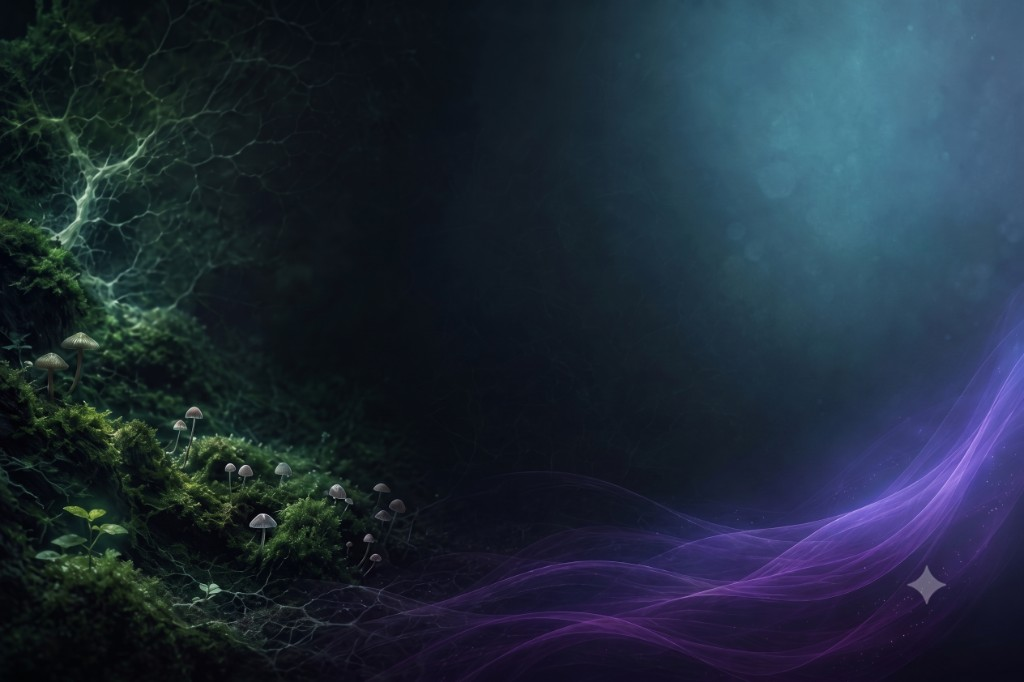
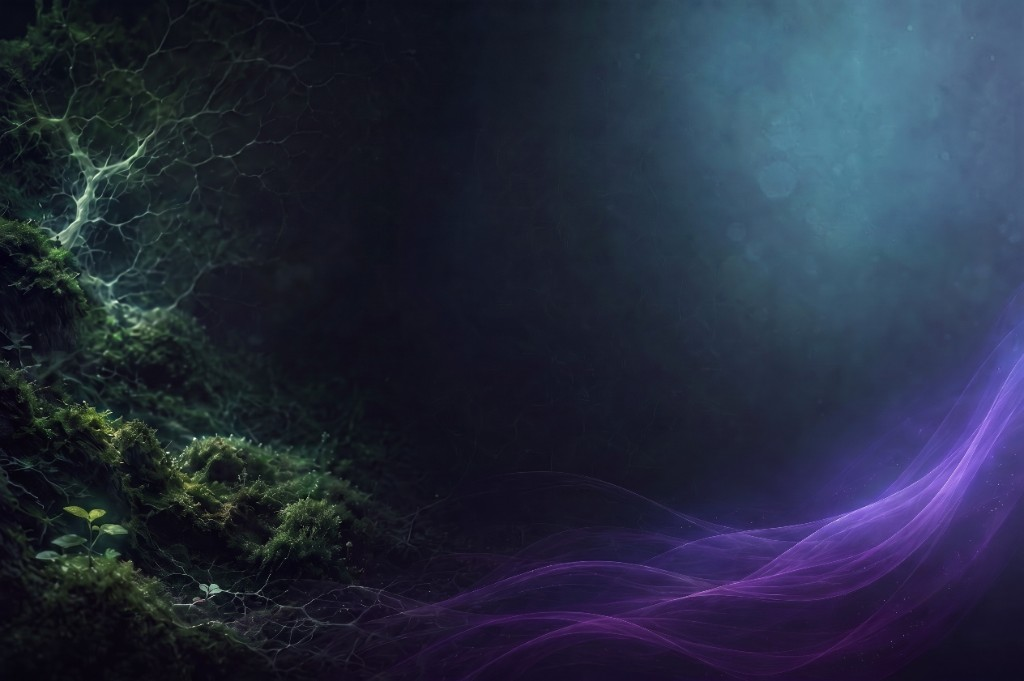
Add photo backgrounds to Blog/FAQ/Science cards, transparent stats section, new bg image

diff --git a/components/blog-faq-links.tsx b/components/blog-faq-links.tsx
@@ -7,63 +7,74 @@ import { useTranslations } from "next-intl"
 export function BlogFaqLinks() {
   const t = useTranslations("blogFaq")
 
-  const cards = [
-    {
-      href: "/blog" as const,
-      className: "glass-card-blog",
-      icon: BookOpen,
-      iconColor: "text-[#C9A664]",
-      iconBg: "bg-[#C9A664]/15",
-      title: t("blogTitle"),
-      desc: t("blogDesc"),
-    },
-    {
-      href: "/faq" as const,
-      className: "glass-card-faq",
-      icon: HelpCircle,
-      iconColor: "text-[#7FA6A1]",
-      iconBg: "bg-[#6E4A7E]/25",
-      title: t("faqTitle"),
-      desc: t("faqDesc"),
-    },
-    {
-      href: "/blog" as const,
-      className: "glass-card-science",
-      icon: Microscope,
-      iconColor: "text-[#7FA6A1]",
-      iconBg: "bg-[#2D5D66]/30",
-      title: t("scienceTitle") ?? "Science",
-      desc: t("scienceDesc") ?? "Studies, data and scientific insights",
-    },
-  ]
-
   return (
-    <section className="py-16 md:py-24 px-6">
-      <div className="max-w-7xl mx-auto grid sm:grid-cols-2 lg:grid-cols-3 gap-6 md:gap-8">
-        {cards.map((card) => {
-          const Icon = card.icon
-          return (
-            <Link
-              key={card.title}
-              href={card.href}
-              className={`group relative ${card.className} p-8 flex flex-col min-h-[420px] lg:min-h-[460px]`}
-            >
-              <div className="flex items-start justify-between mb-8">
-                <div className={`w-14 h-14 rounded-2xl ${card.iconBg} flex items-center justify-center`}>
-                  <Icon className={`w-7 h-7 ${card.iconColor}`} />
-                </div>
-                <ArrowRight className="w-5 h-5 text-[#7A7A7A] group-hover:text-gold group-hover:translate-x-1 transition-all duration-300" />
-              </div>
+    <section className="py-10 px-4">
+      <div className="max-w-6xl mx-auto grid sm:grid-cols-3 gap-4 md:gap-6">
+        {/* Blog — mushroom photo */}
+        <Link
+          href="/blog"
+          className="group relative overflow-hidden rounded-2xl border border-[rgba(201,166,100,0.25)] hover:border-gold/50 transition-all p-7 flex flex-col min-h-[280px]"
+          style={{ boxShadow: '0 20px 60px rgba(0,0,0,.45)' }}
+        >
+          <div className="absolute inset-0 bg-cover bg-center" style={{ backgroundImage: "url('/images/blog-bg.png')" }} />
+          <div className="absolute inset-0 bg-gradient-to-t from-[#08120F]/90 via-[#08120F]/40 to-transparent" />
+          <div className="relative z-10 flex items-start justify-between mb-6">
+            <div className="w-14 h-14 rounded-2xl bg-gold/20 backdrop-blur-sm flex items-center justify-center group-hover:bg-gold/30 transition-colors">
+              <BookOpen className="w-7 h-7 text-gold" />
+            </div>
+            <ArrowRight className="w-5 h-5 text-gold/50 group-hover:text-gold group-hover:translate-x-1 transition-all" />
+          </div>
+          <div className="relative z-10 mt-auto">
+            <h3 className="text-2xl font-bold text-[#F4EFE4] mb-2 group-hover:text-gold transition-colors">
+              {t("blogTitle")}
+            </h3>
+            <p className="text-[#B8B8B8] text-sm leading-relaxed">{t("blogDesc")}</p>
+          </div>
+        </Link>
 
-              <div className="mt-auto">
-                <h3 className="text-[#F4EFE4] mb-3 group-hover:text-gold transition-colors duration-300">
-                  {card.title}
-                </h3>
-                <p className="text-[#B8B8B8] text-[15px] leading-relaxed">{card.desc}</p>
-              </div>
-            </Link>
-          )
-        })}
+        {/* FAQ — purple mushroom photo */}
+        <Link
+          href="/faq"
+          className="group relative overflow-hidden rounded-2xl border border-[rgba(201,166,100,0.25)] hover:border-gold/50 transition-all p-7 flex flex-col min-h-[280px]"
+          style={{ boxShadow: '0 20px 60px rgba(0,0,0,.45)' }}
+        >
+          <div className="absolute inset-0 bg-cover bg-center" style={{ backgroundImage: "url('/images/faq-bg.png')" }} />
+          <div className="absolute inset-0 bg-gradient-to-t from-[#08120F]/90 via-[#08120F]/40 to-transparent" />
+          <div className="relative z-10 flex items-start justify-between mb-6">
+            <div className="w-14 h-14 rounded-2xl bg-violet/30 backdrop-blur-sm flex items-center justify-center group-hover:bg-violet/50 transition-colors">
+              <HelpCircle className="w-7 h-7 text-mist" />
+            </div>
+            <ArrowRight className="w-5 h-5 text-mist/50 group-hover:text-mist group-hover:translate-x-1 transition-all" />
+          </div>
+          <div className="relative z-10 mt-auto">
+            <h3 className="text-2xl font-bold text-[#F4EFE4] mb-2 group-hover:text-mist transition-colors">
+              {t("faqTitle")}
+            </h3>
+            <p className="text-[#B8B8B8] text-sm leading-relaxed">{t("faqDesc")}</p>
+          </div>
+        </Link>
+
+        {/* Science — microscope photo */}
+        <Link
+          href="/blog"
+          className="group relative overflow-hidden rounded-2xl border border-[rgba(201,166,100,0.25)] hover:border-gold/50 transition-all p-7 flex flex-col min-h-[280px]"
+          style={{ boxShadow: '0 20px 60px rgba(0,0,0,.45)' }}
+        >
+          <div className="absolute inset-0 bg-cover bg-center" style={{ backgroundImage: "url('/images/science-bg.png')" }} />
+          <div className="absolute inset-0 bg-gradient-to-t from-[#08120F]/90 via-[#08120F]/40 to-transparent" />
+          <div className="relative z-10 flex items-start justify-between mb-6">
+            <div className="w-14 h-14 rounded-2xl bg-teal/30 backdrop-blur-sm flex items-center justify-center group-hover:bg-teal/50 transition-colors">
+              <Microscope className="w-7 h-7 text-mist" />
+            </div>
+            <ArrowRight className="w-5 h-5 text-mist/50 group-hover:text-mist group-hover:translate-x-1 transition-all" />
+          </div>
+          <div className="relative z-10 mt-auto">
+            <h3 className="text-2xl font-bold text-[#F4EFE4] mb-2 group-hover:text-mist transition-colors">
+              {t("scienceTitle")}
+            </h3>
+            <p className="text-[#B8B8B8] text-sm leading-relaxed">{t("scienceDesc")}</p>
+          </div>
+        </Link>
       </div>
     </section>
   )

diff --git a/components/stats-section.tsx b/components/stats-section.tsx
@@ -1,5 +1,7 @@
-import { Users, Clock, Award, TrendingUp } from "lucide-react"
+import { Users, CheckCircle, Award, Heart, TrendingUp, Star, LucideIcon } from "lucide-react"
 import type { Stat } from "@/lib/api"
+
+const STAT_ICONS: LucideIcon[] = [Users, CheckCircle, Award, Heart, TrendingUp, Star]
 
 interface Translations {
   default0: string
@@ -13,13 +15,6 @@ interface Props {
   translations: Translations
 }
 
-const STAT_CONFIG = [
-  { icon: Users, color: "#C9A664" },
-  { icon: Clock, color: "#A6B58D" },
-  { icon: Award, color: "#6E4A7E" },
-  { icon: TrendingUp, color: "#7FA6A1" },
-]
-
 export function StatsSection({ stats, translations: tr }: Props) {
   const DEFAULT_STATS: Stat[] = [
     { id: 1, value: "1500+", label: tr.default0, order: 0 },
@@ -31,31 +26,19 @@ export function StatsSection({ stats, translations: tr }: Props) {
   const items = stats.length > 0 ? stats : DEFAULT_STATS
 
   return (
-    <section className="py-10 md:py-14 px-6">
-      <div className="max-w-6xl mx-auto">
-        <div className="glass-bar py-8 md:py-0 md:h-[140px] grid grid-cols-2 md:grid-cols-4">
-          {items.map((stat, i) => {
-            const cfg = STAT_CONFIG[i % STAT_CONFIG.length]
-            const Icon = cfg.icon
-            const isNotLast = i < items.length - 1
+    <section className="border-t border-gold/10 py-12 lg:py-16" style={{ background: 'rgba(8,18,15,0.35)', backdropFilter: 'blur(8px)' }}>
+      <div className="container mx-auto px-4 lg:px-8">
+        <div className="grid grid-cols-2 gap-5 md:grid-cols-4 md:gap-8">
+          {items.map((stat, index) => {
+            const IconComponent = STAT_ICONS[index % STAT_ICONS.length]
             return (
-              <div
-                key={stat.id}
-                className={`flex items-center justify-center gap-4 px-4 py-4 md:py-0 ${
-                  isNotLast ? "md:border-r md:border-white/10" : ""
-                }`}
-              >
-                <div
-                  className="w-11 h-11 rounded-xl flex items-center justify-center shrink-0"
-                  style={{ backgroundColor: `${cfg.color}15` }}
-                >
-                  <Icon className="w-5 h-5" style={{ color: cfg.color }} />
+              <div key={stat.id} className="flex items-center gap-3">
+                <div className="flex h-10 w-10 shrink-0 items-center justify-center rounded-lg bg-primary/10 md:h-12 md:w-12">
+                  <IconComponent className="h-5 w-5 text-primary md:h-6 md:w-6" />
                 </div>
-                <div>
-                  <div className="text-2xl md:text-3xl font-bold text-[#F4EFE4] leading-none" style={{ fontFamily: 'var(--font-heading)' }}>
-                    {stat.value}
-                  </div>
-                  <div className="text-[13px] text-[#7A7A7A] mt-1 leading-tight">{stat.label}</div>
+                <div className="min-w-0">
+                  <div className="text-xl font-bold text-primary md:text-2xl lg:text-3xl">{stat.value}</div>
+                  <div className="text-xs text-muted-foreground leading-tight">{stat.label}</div>
                 </div>
               </div>
             )